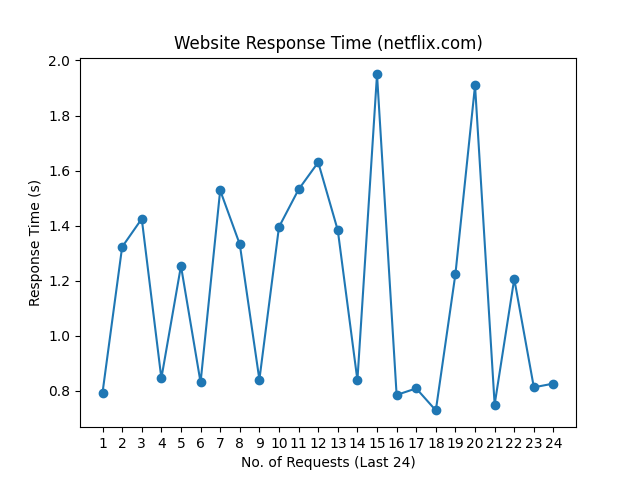
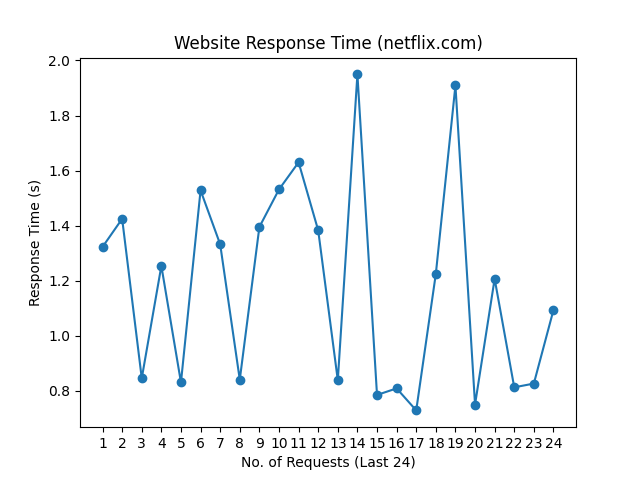
update README.md, history and graph

Changed region(s): [[0.1562, 0.125, 0.875, 0.875]]

diff --git a/README.md b/README.md
@@ -1,10 +1,10 @@
 # Web Monitoring
 
-Last Checked: 07/01/2025 08:20
+Last Checked: 08/01/2025 08:20
 
 | Website | Response Time (s) | Status | Avg Uptime (%) |
 |---------|-------------------|--------|----------------|
 | www.thiswebsiteisdown.net | 0 <br> <img src="graph/thiswebsiteisdown.net.png" alt="Graph" width="200" height="200">  | ❌ Down | 0.00 |
-| www.netflix.com | 0.825520 <br> <img src="graph/netflix.com.png" alt="Graph" width="200" height="200">  | ✅ Up | 99.81 |
-| www.google.com | 0.077739 <br> <img src="graph/google.com.png" alt="Graph" width="200" height="200">  | ✅ Up | 100.00 |
-| www.facebook.com | 1.233614 <br> <img src="graph/facebook.com.png" alt="Graph" width="200" height="200">  | ✅ Up | 100.00 |
+| www.netflix.com | 1.092682 <br> <img src="graph/netflix.com.png" alt="Graph" width="200" height="200">  | ✅ Up | 99.81 |
+| www.google.com | 0.117804 <br> <img src="graph/google.com.png" alt="Graph" width="200" height="200">  | ✅ Up | 100.00 |
+| www.facebook.com | 0.378539 <br> <img src="graph/facebook.com.png" alt="Graph" width="200" height="200">  | ✅ Up | 100.00 |
